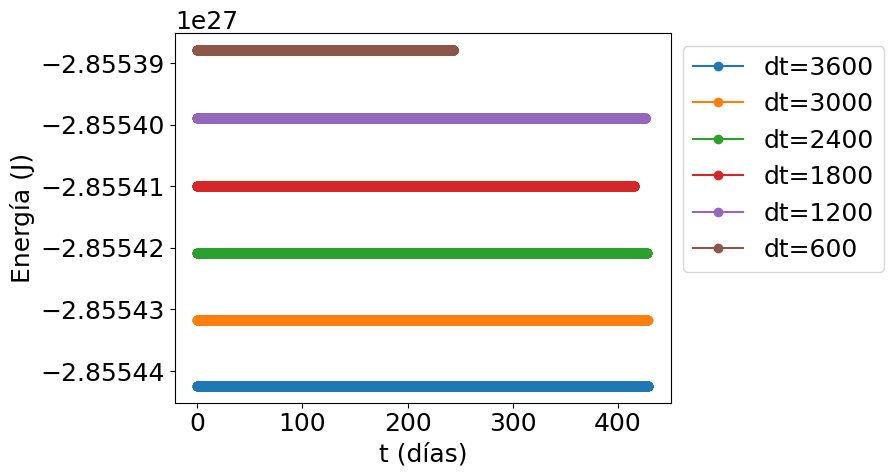
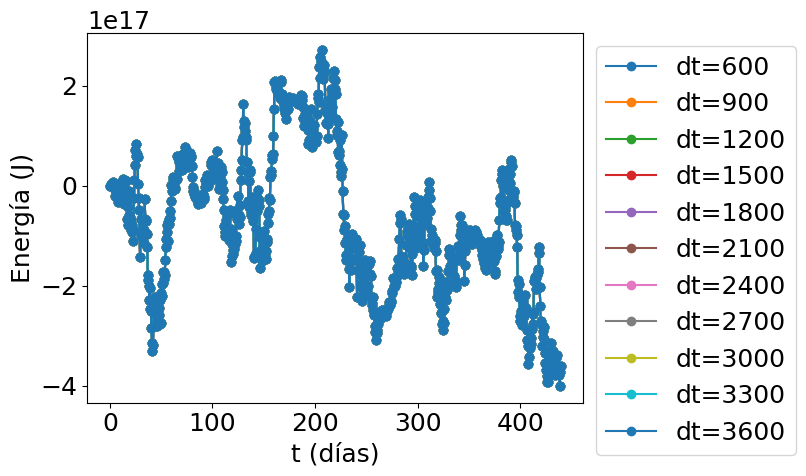
agrego graficos de velocidad

diff --git a/SS-TP4/src/main/java/ar/edu/itba/ss/system2/BenchmarkRunner.java b/SS-TP4/src/main/java/ar/edu/itba/ss/system2/BenchmarkRunner.java
@@ -14,7 +14,7 @@ import java.time.format.DateTimeFormatter;
 import java.util.ArrayList;
 import java.util.Comparator;
 import java.util.List;
-
+import java.util.stream.Collectors;
 
 
 public class BenchmarkRunner {
@@ -42,7 +42,7 @@ public class BenchmarkRunner {
 //            List<MarsMissionEnergy> energies = calculateDt(config);
 //            mmEnergyWriter.createFile(energies, RESULTS_DIRECTORY + DTS_RESULTS_DIR + "simulation_energy");
 
-            //Ej2_1a
+//            //Ej2_1a
             List<SpaceMissionDistance> results2_1 = calculateTakeoffTime(config);
             JSONWriter<List<SpaceMissionDistance>> mmDistanceWriter = new JSONWriter<>();
             SpaceMissionDistance min = results2_1.stream().min(Comparator.comparingInt(o -> (int) o.targetDistance)).get();
@@ -50,7 +50,7 @@ public class BenchmarkRunner {
             String dir = "jupiter".equals(config.getTarget()) ? EJ3_1A_RESULTS_DIR : EJ2_1A_RESULTS_DIR;
             mmDistanceWriter.createFile(results2_1, RESULTS_DIRECTORY + dir + "simulation_takeOffDate");
 
-//            //Ej2_2
+            //Ej2_2
 //            List<MarsMissionVelocity> results2_2 = ej2_2(config);
 //            JSONWriter<List<MarsMissionVelocity>> mmVelocityWriter =new JSONWriter<>();
 //            MarsMissionVelocity minVelocity = results2_2.stream().min(Comparator.comparingInt(o -> (int) o.totalTime)).get();
@@ -97,7 +97,6 @@ public class BenchmarkRunner {
         List<TimeAndEnergy> timeAndEnergies = new ArrayList<>();
         double G = 6.693e-20;
         double initialEnergy = 0;
-        System.out.println("calculate ENERGY");
         for(int s = 0; s < snapshots.size(); s++){
             SimulationSnapshot snapshot = snapshots.get(s);
             List<Particle> particles = snapshot.getParticles();
@@ -113,11 +112,10 @@ public class BenchmarkRunner {
                 }
             }
             double sum = K+P;
-           // System.out.println("K: " + K + ", P: " + P + ", K+P: " + sum);
+            System.out.println("K: " + K + ", P: " + P + ", K+P: " + sum);
             if(s == 0){
                 initialEnergy = sum;
             }
-            System.out.println("diff: "+(sum-initialEnergy));
             timeAndEnergies.add(new TimeAndEnergy(time,sum-initialEnergy));
         }
 
@@ -199,7 +197,7 @@ public class BenchmarkRunner {
         double takeOffTime  = config.getTakeOffTime();
         double deltaT = config.getDeltaT();
         List<Double> velocities= new ArrayList<>();
-        double maxVelocity = 8.5;
+        double maxVelocity = 8.1;
         double velocityStep = 0.001;
         for(double vel = config.getTakeOffSpeed(); vel <= maxVelocity;vel+=velocityStep){
             velocities.add(vel);
@@ -210,7 +208,7 @@ public class BenchmarkRunner {
             AbstractMission mission = instantiateMission(config);
 //            MarsMission mm = new MarsMission(config);
             SpaceMissionResult result = mission.simulate(deltaT,takeOffTime,velocity);
-            results.add(new MarsMissionVelocity(result.getTakeOffSpeed(),result.getTotalTime(),result.isSuccessful()));
+            results.add(new MarsMissionVelocity(result.getTakeOffSpeed(),result.getTotalTime() - result.getTakeOffTime(),result.getState()));
             if(result.isSuccessful()){
                 System.out.println(mission.getName() + " SUCCESS: SPACESHIP LANDED ON WITH TAKEOFF DATE " + mission.getStartDate().plusSeconds((long) takeOffTime).format(DateTimeFormatter.ISO_DATE) + " (" + takeOffTime + ")");
 
@@ -225,16 +223,16 @@ public class BenchmarkRunner {
     private static class MarsMissionVelocity{
         private final double velocity;
         private final double totalTime;
-        private final boolean successful;
+        private final String state;
 
-        public MarsMissionVelocity(double velocity, double totalTime,boolean successful) {
+        public MarsMissionVelocity(double velocity, double totalTime,String state) {
             this.velocity = velocity;
             this.totalTime = totalTime;
-            this.successful = successful;
+            this.state = state;
         }
 
-        public boolean isSuccessful() {
-            return successful;
+        public String getState() {
+            return state;
         }
 
         public double getVelocity() {

diff --git a/SS-TP4/plotter.py b/SS-TP4/plotter.py
@@ -67,21 +67,19 @@ def ej2_1_dt(json):
         ax.ticklabel_format(useOffset=False)
         # ax.plot(times[:len(energies) -2], energies[:len(energies) -2], '-o', label=f"dt={int(deltaT)}")
         for deltaT,timeAndEnergy in zip(deltaTs,timeAndEnergies):
-            print(deltaT)
             times = np.array(list(map(lambda data: data['time'], timeAndEnergy))) / (24  * 60 * 60) 
-            energies = list(map(lambda data: data['energy'] - timeAndEnergy[0]['energy'], timeAndEnergy))
             energies = list(map(lambda data: data['energy'], timeAndEnergy))
             ax.plot(times[:len(energies) -2], energies[:len(energies) -2], 'o', label=f"dt={int(deltaT)}")
             energies_std.append(np.std(np.array(energies)))
- 
-      
+
+
         # plt.yscale('log')
         plt.legend(loc="lower right")
         plt.ylabel('Energía(t) - Energía(0) (J)')
         plt.xlabel('t (días)')
         plt.show()
         fig.savefig('energyVSdtslog', bbox_inches='tight')
-        
+
 
         # plt.plot(deltaTs, energies_std,'-o')
         # plt.ylabel('Desvío estándar de la energía')
@@ -96,7 +94,7 @@ def ej2_1a(jsons):
         #print(marsDistance)
         if state == 'Aterriza':
             marker = 'bo'
-        elif state == "En órbita":
+        elif state == "Alcanza órbita":
             marker = 'go'
         else:
             marker = 'ro'
@@ -107,7 +105,7 @@ def ej2_1a(jsons):
         inOrbitData = list(filter(lambda data: data['state'] == "IN_ORBIT",jsonData))
         missData = list(filter(lambda data: data['state'] == "MISS",jsonData))
         plotData(landedData, "Aterriza")
-        plotData(inOrbitData, "En órbita")
+        plotData(inOrbitData, "Alcanza órbita")
         plotData(missData, "Falla")
         plt.ylabel(f'Distancia (km)')
         plt.xlabel('Tiempo hasta despegue (dia)')
@@ -148,26 +146,36 @@ def ej2_1_b(json):
 
 def ej2_2(json):
 
-    def plotData(jsonData, successful):
+    def plotData(jsonData, state):
         initialVelocities = list(map(lambda data: data['velocity'],jsonData))
         total = len(initialVelocities)
-        travelDuration = list(map(lambda data: data['totalTime'],jsonData))
+        travelDuration = list(map(lambda data: data['totalTime'] / (24*60*60),jsonData))
         #print(marsDistance)
-        if successful:
-            marker = '-bo'
+        if state == 'Aterriza':
+            marker = 'bo'
+        elif state == "Alcanza órbita":
+            marker = 'go'
         else:
-            marker = '-ro'
+            marker = 'ro'
             
-        plt.plot(initialVelocities, travelDuration, marker)
+        plt.plot(initialVelocities, travelDuration, marker,label=f"{state}")
         #plt.yscale('log')
 
     for jsonData in jsons:
-        successfulData = list(filter(lambda data: data['successful'],jsonData))
-        unsuccessfulData = list(filter(lambda data: not data['successful'],jsonData))
-        plotData(successfulData, True)
-        plotData(unsuccessfulData, False)
-        
-        plt.ylabel('Duración del trayecto (s)')
+        landedData = list(filter(lambda data: data['state'] == "LANDED",jsonData))
+        inOrbitData = list(filter(lambda data: data['state'] == "IN_ORBIT",jsonData))
+        missData = list(filter(lambda data: data['state'] == "MISS",jsonData))
+        # successfulData = list(filter(lambda data: data['successful'],jsonData))
+        # unsuccessfulData = list(filter(lambda data: not data['successful'],jsonData))
+        times = list(map(lambda data: data['totalTime'], landedData))
+        min_time = min(times)
+        min_vals = list(filter(lambda data: data['totalTime'] == min_time,landedData))[0]
+        print(f"Optimized travel time is: {min_vals['totalTime']}, for v0 = {min_vals['velocity']} km/s")
+        plotData(landedData, "Aterriza")
+        plotData(inOrbitData, "Alcanza órbita")
+        plotData(missData, "Falla")
+        plt.legend()
+        plt.ylabel('Duración del trayecto (días)')
         plt.xlabel('Velocidad inicial (km/s)')
         plt.show()
 
